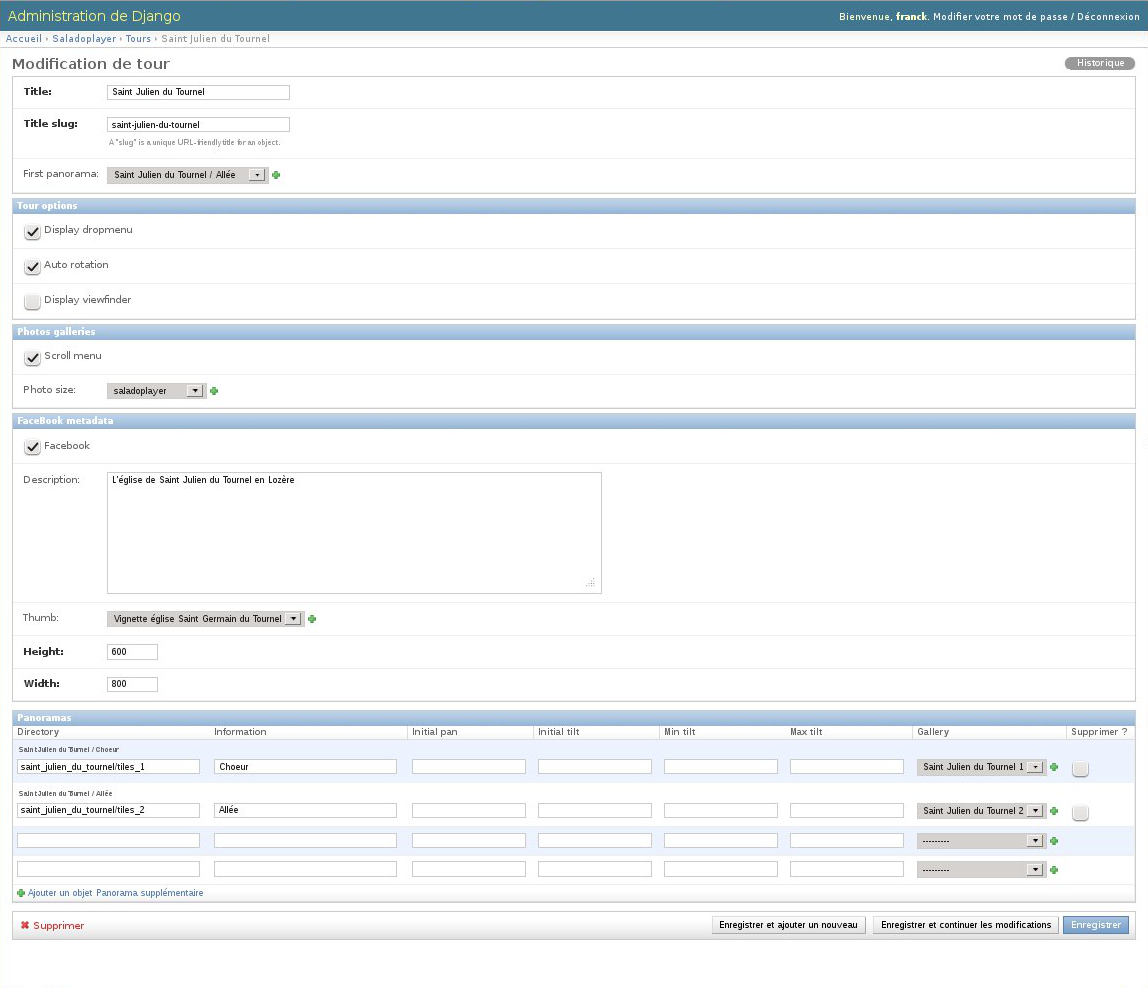
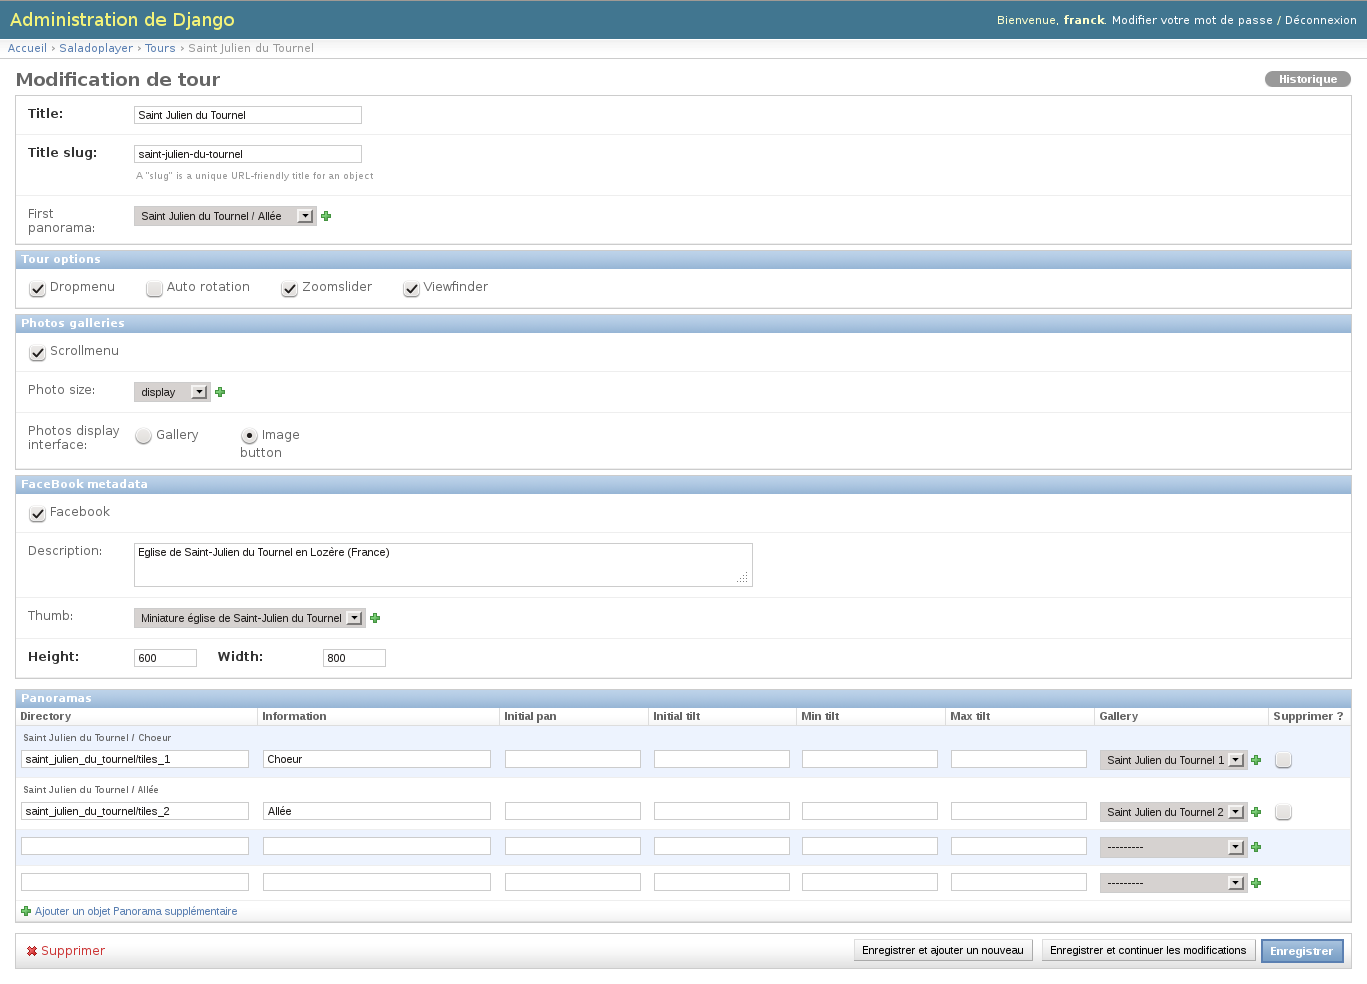
use SaladoPlayer Gallery for displaying images

Changed region(s): [[0.0, 0.0, 1.0, 0.5793], [0.0, 0.6098, 1.0, 1.0], [0.0915, 0.5488, 0.2744, 0.5793]]

diff --git a/saladoplayer/admin.py b/saladoplayer/admin.py
@@ -7,7 +7,12 @@ License : GPL v3"""
 
 from django.contrib import admin
 from django import forms
+from django.utils.safestring import mark_safe
 from saladoplayer.models import Tour, Panorama, Chaining, HotspotInformation
+
+class HorizontalRadioRenderer(forms.RadioSelect.renderer):
+  def render(self):
+    return mark_safe(u'\n'.join([u'%s\n' % w for w in self]))
 
 class PanoramaInline(admin.TabularInline):
     model = Panorama
@@ -34,8 +39,8 @@ class PanoramaAdminForm(forms.ModelForm):
 class PanoramaAdmin(admin.ModelAdmin):
     fieldsets = [
         ('', {'fields': ['tour', 'directory', 'information']}),
-        ('Initial position', {'fields': ['initial_pan', 'initial_tilt']}),
-        ('Vertical field of view limitation', {'fields': ['min_tilt', 'max_tilt']}),
+        ('Initial position', {'fields': [('initial_pan', 'initial_tilt')]}),
+        ('Vertical field of view limitation', {'fields': [('min_tilt', 'max_tilt')]}),
         ('Photo gallery', {'fields': ['gallery']}),
     ]
     form = PanoramaAdminForm
@@ -43,7 +48,11 @@ class PanoramaAdmin(admin.ModelAdmin):
 class TourAdminForm(forms.ModelForm):
     class Meta:
         model = Tour
-
+        widgets = {'gallery': forms.RadioSelect(
+                                 choices=((True, 'Gallery'),
+                                          (False, 'Image button')),
+                                 renderer=HorizontalRadioRenderer)}
+    
     def clean(self):
         cleaned_data = super(TourAdminForm, self).clean()
         facebook = cleaned_data.get("facebook")
@@ -58,9 +67,9 @@ class TourAdmin(admin.ModelAdmin):
     inlines = [PanoramaInline]
     fieldsets = [
         ('', {'fields': ['title', 'title_slug', 'first_panorama']}),
-        ('Tour options', {'fields': ['dropmenu', 'auto_rotation', 'zoomslider', 'viewfinder']}),
-        ('Photos galleries', {'fields': ['scrollmenu', 'photo_size']}),
-        ('FaceBook metadata', {'fields': ['facebook', 'description', 'thumb', 'height', 'width']}),
+        ('Tour options', {'fields': [('dropmenu', 'auto_rotation', 'zoomslider', 'viewfinder')]}),
+        ('Photos galleries', {'fields': ['scrollmenu', 'photo_size', 'gallery']}),
+        ('FaceBook metadata', {'fields': ['facebook', 'description', 'thumb', ('height', 'width')]}),
     ]
     prepopulated_fields = {'title_slug': ('title',)}
     form = TourAdminForm
@@ -82,7 +91,7 @@ class ChainingAdminForm(forms.ModelForm):
 class ChainingAdmin(admin.ModelAdmin):
     fieldsets = [
         ('Panorama chaining', {'fields': ['from_panorama', 'to_panorama']}),
-        ('Position', {'fields': ['pan', 'tilt']}),
+        ('Position', {'fields': [('pan', 'tilt')]}),
         ('Options', {'fields': ['show_information']}),
     ]
     form = ChainingAdminForm
@@ -90,7 +99,7 @@ class ChainingAdmin(admin.ModelAdmin):
 class HotspotInformationAdmin(admin.ModelAdmin):
     fieldsets = [
         (None, {'fields': ['panorama', 'information']}),
-        ('Position', {'fields': ['pan', 'tilt']}),
+        ('Position', {'fields': [('pan', 'tilt')]}),
     ]
 
 admin.site.register(Tour, TourAdmin)

diff --git a/saladoplayer/models.py b/saladoplayer/models.py
@@ -39,16 +39,17 @@ class Tour(models.Model):
     """Defines the panoramas in the tour."""
     title = models.CharField(max_length=64, unique=True)
     title_slug = models.SlugField(max_length=64, unique=True,
-          help_text=('A "slug" is a unique URL-friendly title for an object.'))
+          help_text=('A "slug" is a unique URL-friendly title for an object'))
     dropmenu = models.BooleanField()
     viewfinder = models.BooleanField()
     scrollmenu = models.BooleanField()
+    gallery = models.BooleanField(verbose_name=('Photos display interface'))
     zoomslider = models.BooleanField()
     auto_rotation = models.BooleanField()
     facebook = models.BooleanField()
     description = models.TextField(blank=True)
     thumb = models.ForeignKey(Photo, 
-                                blank=True, null=True)
+                              blank=True, null=True)
     height = models.IntegerField(default=600)
     width = models.IntegerField(default=800)
     #related name is needed for firstPanorama

diff --git a/setup.py b/setup.py
@@ -9,7 +9,7 @@ from distutils.core import setup
 from setuptools import find_packages
 
 setup(name = "django-saladoplayer",
-    version = "0.3.0",
+    version = "0.3.1",
     description = "Django application for displaying spherical panoramas using SaladoPlayer flash viewer",
     author = "Franck Barbenoire",
     author_email = "fbarbenoire@yahoo.fr",

diff --git a/docs/conf.py b/docs/conf.py
@@ -50,9 +50,9 @@ copyright = u'2012, Franck Barbenoire'
 # built documents.
 #
 # The short X.Y version.
-version = '0.3.0'
+version = '0.3.1'
 # The full version, including alpha/beta/rc tags.
-release = '0.3.0'
+release = '0.3.1'
 
 # The language for content autogenerated by Sphinx. Refer to documentation
 # for a list of supported languages.

diff --git a/docs/configuration.rst b/docs/configuration.rst
@@ -10,7 +10,8 @@ You configure your panorama tour by giving all the necessary informations in the
     * **Dropmenu**. This is a boolean field. It enables to display a drop menu for selecting the panorama you want to move to.
     * **Viewfinder**. This is a boolean field. It enables to  display the viewfinder (coordinates of the central point). This is useful for finding pan and tilt of the hotspots.
     * **Zoomslider**. This is a boolean field. It enables to  display of the zoom slider. By moving the cursor along the slider, you can zoom in or out the panorama.
-    * **Scrollmenu**. This is a boolean field. It enables to display a scroll menu for selecting image and move the pano to the hotspot relative to the image.
+    * **Gallery**. This is a boolean field. It controls what display interface is used when an image hotspot is clicked. If true, a photo gallery is displayed, else a button bitmap is used.
+    * **Scrollmenu**. This is a boolean field. It enables to display a scroll menu for selecting image and move the pano to the image hotspot relative to the image.
     * **Size**. This is a Photologue size. It has to be created in the Photologue interface, you can use the "display" size that Pholotogue invited you to create when you configured it. This is the size the images (from the Photologue galery) will be displayed at. Watermark and effect can be associated to the size.
     * **First panorama**. It specifies what is the first panorama which has to be displayed when the tour starts.
     * **Auto rotation**. This is a boolean field. It enables the rotation of the panorama after a 10 seconds delay.
@@ -20,27 +21,27 @@ You configure your panorama tour by giving all the necessary informations in the
     * **Height**. This is an Interger field. This is the height of the tour image when the target link is displayed in the Facebook interface.
     * **Width**. This is an Interger field. This is the width of the tour image when the target link is displayed in the Facebook interface.
 
-* **Panoramas**. A panorama is a spheric image stored in a particular directory. A panorama is included in a tour. Its fields are as follows :
+* **Panoramas**. A panorama is a spherical image stored in a particular directory. A panorama is included in a tour. Its fields are as follows :
 
-    * **Directory**. This is a string field. The name of the directory containing the panorama. The url of the root directory of the panorama is obtained by concataining the strings SALADOPLAYER_URL + <directory field value>.
+    * **Directory**. This is a string field. This is the name of the directory containing the panorama. The url of the root directory of the panorama is obtained by concataining the strings SALADOPLAYER_URL + <directory field value>. SALADOPLAYER_URL is defined in your settings.py file (see installation page).
     * **Information**. This is a string field. Its value is used as a label which is displayed when the mouse cursor is over a panorama hotspot or in the drop menu.
-    * **Initial pan**. This is an optional information. Initial pan when entering the panorama.
-    * **Initial tilt**. This is an optional information. Initial tilt when entering the panorama.
-    * **Min tilt**. This is an optional information. Defines the lowest angle you can look downward.
-    * **Max tilt**. This is an optional information. Defines the highest angle you can look upward.
-    * **Gallery**. This a photologue gallery. This will be used for displaying images within the tour. Two modes are currently available for displaying a gallery. As hotspots, in this case you have to give the pan and tilt of the hotspot in the title field of the photo. The format is "title|pan|tilt", example : "Beautiful painting|63.05|10.61". As scroll menu, the images of the gallery are inserted in the menu.
+    * **Initial pan**. This is float field. This is an optional information. Initial pan when entering the panorama.
+    * **Initial tilt**. This is float field. This is an optional information. Initial tilt when entering the panorama.
+    * **Min tilt**. This is float field. This is an optional information. Defines the lowest angle you can look downward.
+    * **Max tilt**. This is float field. This is an optional information. Defines the highest angle you can look upward.
+    * **Gallery**. This a photologue gallery. This will be used for displaying images within the tour. Two modes are currently available for displaying a gallery. As image hotspots, in this case you have to give the pan and tilt of the hotspot in the title field of the photo. The format is "title|pan|tilt", example : "Beautiful painting|63.05|10.61". As scroll menu, the images of the gallery are inserted in the menu.
 
-* **Chainings**. A chaining record describes the link between two panoramas. It enables to display a hotspot panorama at the specified position. When you click on the hotspot, the destination panorama is displayed. Its fields are as follows :
+* **Chainings**. A chaining record describes the link between two panoramas within the same tour. It enables to display a panorama hotspot at the specified position (pan and tilt). When you click on the hotspot, the destination panorama is displayed. Its fields are as follows :
 
     * **From Panorama**. The source panorama.
     * **To Panorama**. The destination panorama.
-    * **Pan**. the pan parameter of the hotspot position of the destination panorama in the source panorama. You can get this value by setting SALADOPLAYER_VIEWER to True in your settings.py.
-    * **Tilt**. the same as above but for the the tilt parameter.
-    * **Show Information**. This is a boolean field. Whether to display or not the information of the destination panorama.
+    * **Pan**. This is float field. This is the pan parameter of the destination panorama hotspot in the source panorama. You can get pan and tilt by checking Viewfinder in the Tour configuration.
+    * **Tilt**. This is float field. This the same as above but for the the tilt parameter.
+    * **Show Information**. This is a boolean field. Check it for displaying the information of the destination panorama.
 
 * **Hotspot Informations**. It enables to display some text when the mouse cursor is over an information hotspot. Its fields are as follows :
 
     * **Panorama**. The panorama where the information has to be displayed in.
-    * **Pan**. the pan parameter of the hotspot position in the panorama.
-    * **Tilt**. the tilt parameter of the hotspot position in the panorama.
+    * **Pan**. This is float field. This is the pan parameter of the information hotspot in the panorama.
+    * **Tilt**. This is float field. This is the tilt parameter of the information hotspot in the panorama.
     * **Information**. This is a string field. Its value is used as a label which is displayed when the mouse cursor is over the information hotspot.

diff --git a/docs/installation.rst b/docs/installation.rst
@@ -7,7 +7,10 @@ The SaladoPlayer application does not require any other application to be instal
 
     INSTALLED_APPS = (
     ...
-    saladoplayer,
+    'photologue',
+    'saladoplayer',
+    'south',
+    'tagging',
     ...
     )
 
@@ -36,3 +39,94 @@ The SaladoPlayer application does not require any other application to be instal
 plinit configures the Photologue application database. Create the "thumbnail" and "display" sizes, they will be used by Saladoplayer.
 
 spinit configures the SaladoPlayer application database. It checks that you have created the above sizes in Photologue. It also creates a Photologue gallery named "saladoplayer" and inserts 3 hotspot images. You can change the images to redefine the hotspot images. There is currently 3 images named "see", "goto" and "info". You have to use the same names.
+
+* sample init session :
+::
+
+  $ python manage.py syncdb
+  Syncing...
+  Creating tables ...
+  Creating table auth_permission
+  Creating table auth_group_permissions
+  Creating table auth_group
+  Creating table auth_user_user_permissions
+  Creating table auth_user_groups
+  Creating table auth_user
+  Creating table django_content_type
+  Creating table django_session
+  Creating table django_site
+  Creating table django_admin_log
+  Creating table tagging_tag
+  Creating table tagging_taggeditem
+  Creating table south_migrationhistory
+  Creating table saladoplayer_tour
+  Creating table saladoplayer_panorama
+  Creating table saladoplayer_chaining
+  Creating table saladoplayer_hotspotinformation
+
+  You just installed Django's auth system, which means you don't have any superusers defined.
+  Would you like to create one now? (yes/no): yes
+  Username (leave blank to use 'franck'):
+  E-mail address: fbarbenoire@yahoo.fr
+  Password:
+  Password (again):
+  Superuser created successfully.
+  Installing custom SQL ...
+  Installing indexes ...
+  Installed 0 object(s) from 0 fixture(s)
+
+  Synced:
+  > django.contrib.auth
+  > django.contrib.contenttypes
+  > django.contrib.sessions
+  > django.contrib.sites
+  > django.contrib.messages
+  > django.contrib.staticfiles
+  > django.contrib.admin
+  > django_extensions
+  > tagging
+  > south
+  > saladoplayer
+
+  Not synced (use migrations):
+  - photologue
+  (use ./manage.py migrate to migrate these)
+  $ python manage.py migrate
+  Running migrations for photologue:
+  - Migrating forwards to 0003_auto__chg_field_photosize_name.
+  > photologue:0001_initial
+  > photologue:0002_auto__chg_field_gallery_title__chg_field_galleryupload_title__chg_fiel
+  > photologue:0003_auto__chg_field_photosize_name
+  - Loading initial data for photologue.
+  Installed 0 object(s) from 0 fixture(s)
+  $ python manage.py plinit
+  Photologue requires a specific photo size to display thumbnail previews in the Django admin application.
+  Would you like to generate this size now? (yes, no):no
+
+  Photologue comes with a set of templates for setting up a complete photo gallery. These templates require you to define both a "thumbnail" and "display" size.
+  Would you like to define them now? (yes, no):yes
+
+  We will now define the "thumbnail" photo size:
+
+  Width (in pixels):150
+  Height (in pixels):120
+  Crop to fit? (yes, no):no
+  Pre-cache? (yes, no):yes
+  Increment count? (yes, no):no
+
+  A "thumbnail" photo size has been created.
+
+  We will now define the "display" photo size:
+
+  Width (in pixels):800
+  Height (in pixels):600
+  Crop to fit? (yes, no):no
+  Pre-cache? (yes, no):yes
+  Increment count? (yes, no):no
+
+  A "display" photo size has been created.
+
+  Would you like to apply a sample reflection effect to your display images? (yes, no):no
+  $ python manage.py spinit
+  saladoplayer gallery successfuly added
+

diff --git a/docs/introduction.rst b/docs/introduction.rst
@@ -6,7 +6,7 @@ Franck Barbenoire <fbarbenoire@yahoo.fr>
 Software version
 ================
 
-Version 0.3.0, December 2nd, 2012.
+Version 0.3.1, December 15th, 2012.
 
 License
 =======
@@ -37,4 +37,4 @@ In the open source world, you can use `Python Deep Zoom Tools <https://github.co
 Required packages
 =================
 
-From version 0.3.0, django-photologue is required. For those who do not want to install extra packages, django-saladoplayer-0.2.4 will be still available but without the image and scroll menu features.
+From version 0.3.0, django-photologue is required (and of course Photologue dependences). For those who do not want to install extra packages, django-saladoplayer-0.2.4 will be still available but without the image and scroll menu features.

diff --git a/docs/screenshots.rst b/docs/screenshots.rst
@@ -1,8 +1,20 @@
 Screenshots
 ===========
 
+Here is some screenshots from the administration interface :
+
+- tour configuration :
+
 .. image:: images/tour.png
 
+- chaining hotspot configuration :
+
 .. image:: images/chaining.png
+
+- information hotspot configuration :
+
+.. image:: images/information.png
+
+Here the result of the above configuration :
 
 .. image:: images/saint-julien-du-tournel.png
